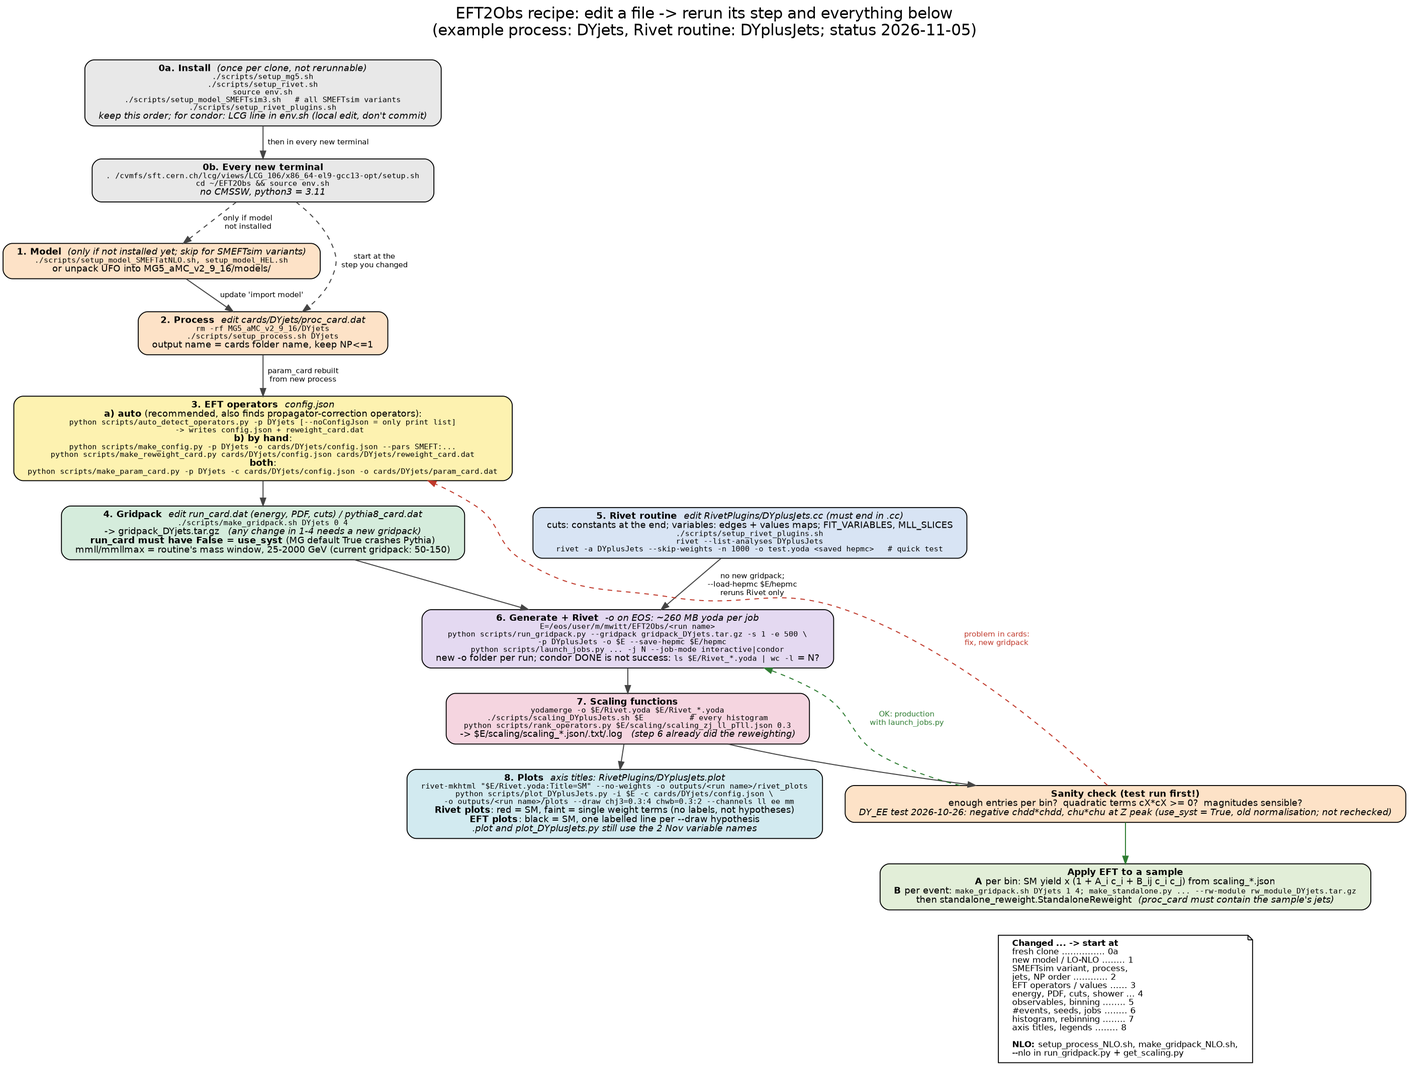
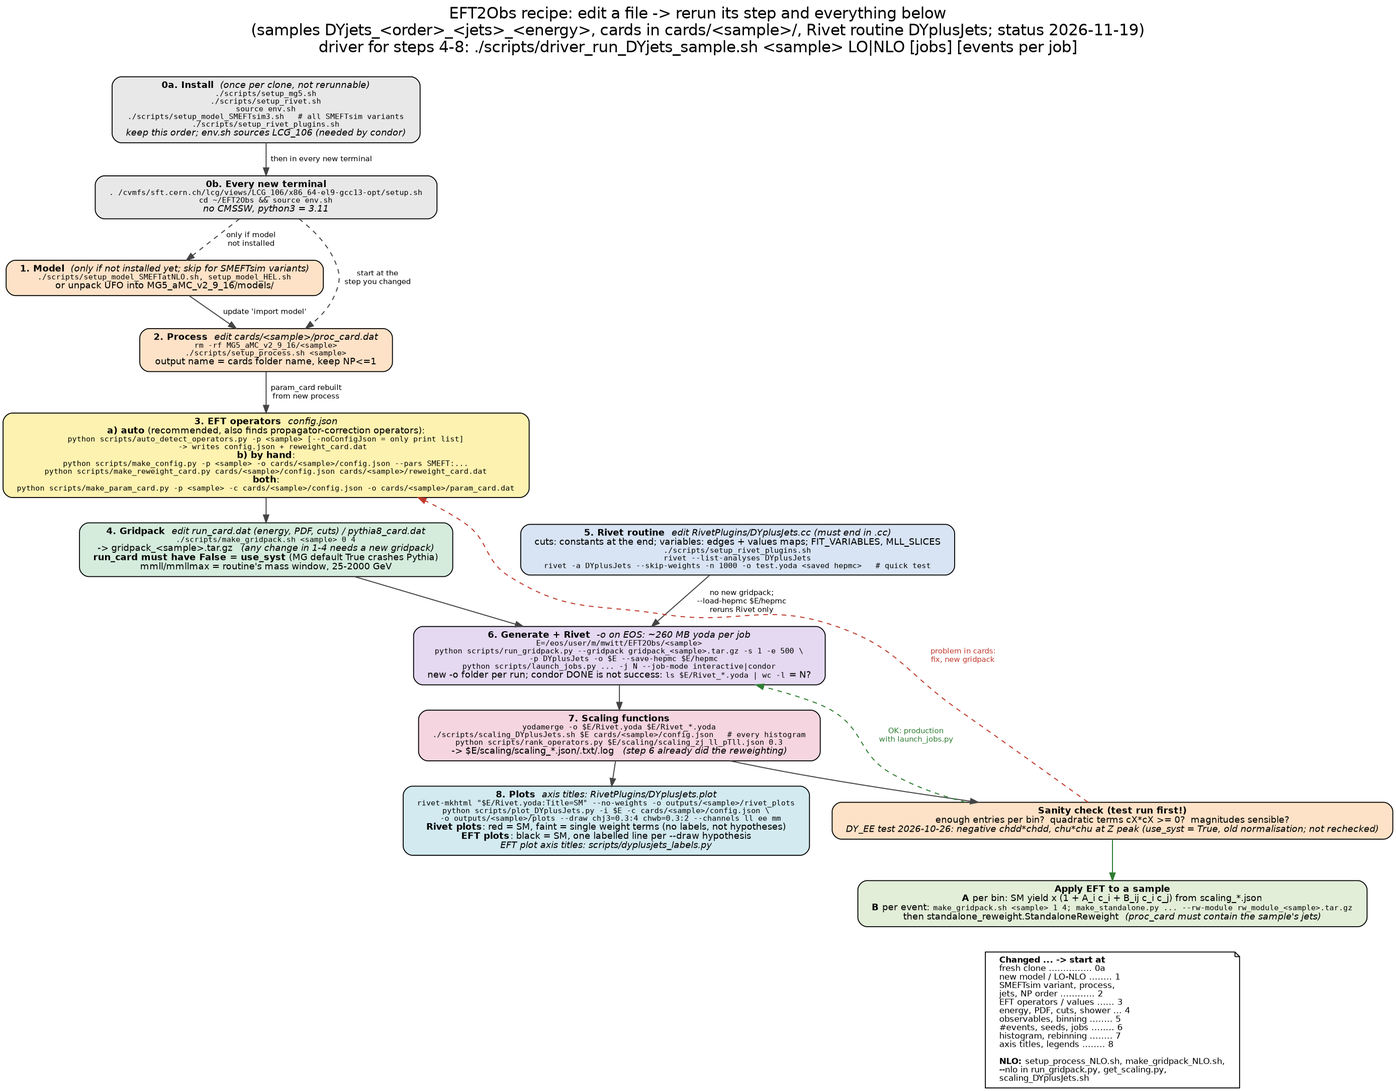
Subcategorise cards into cards/<sample>
The recipe now describes the per-sample cards and the driver, and it no longer contradicts the commits before it (env.sh, rank_operators.py, labels). scaling_DYplusJets.sh needs the config as an argument instead of defaulting to cards/DYjets/config.json.

Changed region(s): [[0.0, 0.0, 1.0, 1.0], [0.6194, 0.6535, 0.6813, 0.6846], [0.6813, 0.5912, 0.7123, 0.6223]]

diff --git a/scripts/plot_DYplusJets.py b/scripts/plot_DYplusJets.py
@@ -9,7 +9,7 @@ Input : <input-dir>/scaling/scaling_zj_<channel>_<variable>.json and scaling_ll_
 Output: <outdir>/zj_<channel>_<variable>_{lin,log}.{png,pdf} and <outdir>/ll_nJets_{lin,log}.{png,pdf}
 
 Example, from the EFT2Obs folder:
-  python scripts/plot_DYplusJets.py -i test-dyplusjets -c cards/DYjets/config.json \\
+  python scripts/plot_DYplusJets.py -i $E -c cards/<sample>/config.json \\
       --draw chj1=0.3:4 chu=0.3:2 "chj1=0.3,chu=0.3:8" --ratio 0.8,1.2
 
 With --top-ranked <dir>, each histogram also gets its own leading operators, read from

diff --git a/EFT2Obs_recipe/EFT2Obs_recipe.md b/EFT2Obs_recipe/EFT2Obs_recipe.md
@@ -1,8 +1,14 @@
 # EFT2Obs recipe: what to edit and what to rerun
 
-Example process: `DYjets` (cards in `cards/DYjets/`, Rivet routine `DYplusJets`).
-Status: 2026-11-05.
-Replace `DYjets` with your process name everywhere if you make a new one.
+Example: the DYjets samples with the Rivet routine `DYplusJets`. Each sample has its own cards folder
+`cards/<sample>/`, named `DYjets_<order>_<jets>_<energy>`, e.g. `DYjets_LO_012j_13p6TeV`. The sample name is
+also the MadGraph process name (`output` line of `proc_card.dat`), the gridpack name, and the EOS folder.
+In the commands below, replace `<sample>` by it. A new sample starts as a copy of an existing cards folder.
+Status: 2026-11-19.
+
+**Driver:** `./scripts/driver_run_DYjets_sample.sh <sample> <LO|NLO> [jobs] [events per job]` runs steps 4–8
+for one sample: gridpack, test job, condor jobs, merging, scaling, rankings, plots, and a README. Its header
+lists its own steps; `FROM_STEP=<n>` resumes at one of them. The sections below describe each step by hand.
 
 Rule of thumb: **every step depends on the ones above it.** If you change
 something, rerun its step and *everything below it*.
@@ -37,18 +43,13 @@ ls MG5_aMC_v2_9_16/models/ | grep SMEFTsim       # UFO folders are there
   `setup_mg5.sh` first, and `setup_process.sh` (step 2) needs the model.
 - `setup_mg5.sh` always prints `ERROR: environment variable LHAPDF_CONFIG_PATH is not set`
   at the start. That line is misleading and can be ignored.
-- `scripts/rank_operators.py` is not in git (status 2026-11-05): on a new clone, copy it over before step 7.
 - **These scripts are not meant to be rerun:** `setup_mg5.sh` stops if `lhapdf/` or
   `MG5_aMC_v2_9_16/` exists, and `setup_model_SMEFTsim3.sh` stops if the models exist.
   Changing the model, process or cards never needs a reinstall.
 
-**Using condor:** the jobs only run `source env.sh`, so they need the LCG line in it, otherwise
-they fail with `python: command not found`:
-```bash
-sed -i '1a source /cvmfs/sft.cern.ch/lcg/views/LCG_106/x86_64-el9-gcc13-opt/setup.sh' env.sh
-```
-Keep this as a local edit and don't commit it (it would break CMSSW users). It can get lost
-(it did on 2026-10-29), so check with `grep -n LCG_106 env.sh` before submitting.
+**Using condor:** the jobs only run `source env.sh`, so `env.sh` sources the LCG_106 view in its first
+lines; without it they fail with `python: command not found`. This is also why `env.sh` must not be sourced
+in a CMSSW shell (step 0b).
 
 **Only if the MadGraph install is really broken:** this also deletes all models and process
 folders; your `cards/` stay.
@@ -56,8 +57,8 @@ folders; your `cards/` stay.
 rm -rf MG5_aMC_v2_9_16 lhapdf HEPToolsInstallers
 ./scripts/setup_mg5.sh
 ./scripts/setup_model_SMEFTsim3.sh
-./scripts/setup_process.sh DYjets
-./scripts/make_gridpack.sh DYjets 0 4
+./scripts/setup_process.sh <sample>
+./scripts/make_gridpack.sh <sample> 0 4
 ```
 Rivet (`local/`) is not affected and does not need reinstalling.
 
@@ -80,17 +81,17 @@ source env.sh
 | What you want to change                          | File(s) to edit                                      | Start at step |
 |--------------------------------------------------|------------------------------------------------------|---------------|
 | Fresh clone, nothing installed yet               | none                                                 | **0a**        |
-| Other SMEFTsim flavour/scheme (already installed) | `import model` line in `cards/DYjets/proc_card.dat` | **2**         |
+| Other SMEFTsim flavour/scheme (already installed) | `import model` line in `cards/<sample>/proc_card.dat` | **2**         |
 | New model that is not installed yet (UFO)        | install into `MG5_aMC_v2_9_16/models/` + `proc_card.dat` | **1**     |
-| Process, final state, extra jets, `NP<=1`        | `cards/DYjets/proc_card.dat`                         | **2**         |
+| Process, final state, extra jets, `NP<=1`        | `cards/<sample>/proc_card.dat`                       | **2**         |
 | LO ↔ NLO (`[QCD]`)                               | `proc_card.dat`, model, NLO scripts (see NLO box)    | **1/2**       |
-| Which EFT operators / their values               | `cards/DYjets/config.json` (via `auto_detect_operators.py` or `make_config.py`) | **3** |
-| Generation params: energy, PDF, cuts, scales     | `cards/DYjets/run_card.dat`                          | **4**         |
-| Shower settings (Pythia8, CMS tune)              | `cards/DYjets/pythia8_card.dat`                      | **4**         |
+| Which EFT operators / their values               | `cards/<sample>/config.json` (via `auto_detect_operators.py` or `make_config.py`) | **3** |
+| Generation params: energy, PDF, cuts, scales     | `cards/<sample>/run_card.dat`                        | **4**         |
+| Shower settings (Pythia8, CMS tune)              | `cards/<sample>/pythia8_card.dat`                    | **4**         |
 | Rivet observables / cuts / binning               | `RivetPlugins/DYplusJets.cc`                         | **5**         |
 | Number of events / seeds / jobs                  | command line only                                    | **6**         |
 | Which histogram to parametrise / rebinning       | command line only                                    | **7**         |
-| Plot axis titles / legends                       | `RivetPlugins/DYplusJets.plot`, `plot_DYplusJets.py` | **8**         |
+| Plot axis titles / legends                       | `RivetPlugins/DYplusJets.plot`, `scripts/dyplusjets_labels.py` | **8**         |
 
 ---
 
@@ -117,7 +118,7 @@ Then update the `import model ...` line in `proc_card.dat` → continue with **s
 
 ---
 
-## 2. Process (`cards/DYjets/proc_card.dat`)
+## 2. Process (`cards/<sample>/proc_card.dat`)
 
 Edit, e.g.:
 ```
@@ -126,24 +127,24 @@ import model SMEFTsim_topU3l_MwScheme_UFO-massless
 generate p p > l+ l- NP<=1 @0
 add process p p > l+ l- j NP<=1 @1
 
-output DYjets
+output <sample>
 ```
 - `output <name>` **must equal** the `cards/<name>` folder name.
 - Keep `NP<=1` (at most one EFT vertex per diagram) → linear + quadratic terms.
-- **Current `cards/DYjets/proc_card.dat`:** only `generate p p > l+ l- NP<=1 @0` (the `+ j` line is
-  commented out), so all jets come from the shower.
+- **The samples:** `0j` has only `generate p p > l+ l- NP<=1 @0`, so all jets come from the shower; `01j`
+  adds `p p > l+ l- j NP<=1 @1`; `012j` also `p p > l+ l- j j NP<=1 NPcG=0 @2`.
 - With `+ j` (and `+ j j`) processes, the jets need MLM merging: `ickkw = 1` and `xqcut` in `run_card.dat`
-  (step 4). `cards/ggF-HEL` is a working example.
+  (step 4), as in the `01j` and `012j` cards.
 
 Rerun (the script refuses if the MG process folder already exists):
 ```bash
-rm -rf MG5_aMC_v2_9_16/DYjets
-./scripts/setup_process.sh DYjets
+rm -rf MG5_aMC_v2_9_16/<sample>
+./scripts/setup_process.sh <sample>
 ```
-- `run_card.dat` / `pythia8_card.dat` in `cards/DYjets/` are **not overwritten** if they exist.
+- `run_card.dat` / `pythia8_card.dat` in `cards/<sample>/` are **not overwritten** if they exist.
   If the process changed a lot (e.g. added jets → need matching/merging settings),
   delete them first to get fresh MG defaults, then re-apply your edits:
-  `rm cards/DYjets/{run,pythia8}_card.dat` before `setup_process.sh`.
+  `rm cards/<sample>/{run,pythia8}_card.dat` before `setup_process.sh`.
   **A fresh `run_card.dat` has `use_syst = True` again: set it back to `False` (see step 4).**
 
 → continue with **step 3** (the `param_card` must be rebuilt from the new process).
@@ -161,17 +162,17 @@ and for SMEFTsim v3 also the `NP...` coupling orders of the Feynman diagrams and
 
 ```bash
 # only print the list, don't write anything
-python scripts/auto_detect_operators.py -p DYjets --noConfigJson
+python scripts/auto_detect_operators.py -p <sample> --noConfigJson
 
-# write cards/DYjets/config.json + cards/DYjets/reweight_card.dat
-python scripts/auto_detect_operators.py -p DYjets \
+# write cards/<sample>/config.json + cards/<sample>/reweight_card.dat
+python scripts/auto_detect_operators.py -p <sample> \
     --def-val 0.01 --def-sm 0.0 --def-gen 0.0
 
 # then the param_card (auto_detect does NOT make it)
-python scripts/make_param_card.py -p DYjets -c cards/DYjets/config.json \
-    -o cards/DYjets/param_card.dat
+python scripts/make_param_card.py -p <sample> -c cards/<sample>/config.json \
+    -o cards/<sample>/param_card.dat
 ```
-- Run it from the `EFT2Obs` folder, after `setup_process.sh` (it needs `MG5_aMC_v2_9_16/DYjets`).
+- Run it from the `EFT2Obs` folder, after `setup_process.sh` (it needs `MG5_aMC_v2_9_16/<sample>`).
 - It **overwrites** `config.json` and `reweight_card.dat`; it also prints the
   `make_config.py ... --pars SMEFT:...` command it used, so you can copy that into 3b.
 - The `import model ...` line must be the **first line** of `proc_card.dat`.
@@ -181,17 +182,17 @@ python scripts/make_param_card.py -p DYjets -c cards/DYjets/config.json \
 
 ### 3b. By hand
 
-Look up block names / indices in `MG5_aMC_v2_9_16/DYjets/Cards/param_card.dat`.
+Look up block names / indices in `MG5_aMC_v2_9_16/<sample>/Cards/param_card.dat`.
 
 ```bash
-python scripts/make_config.py -p DYjets -o cards/DYjets/config.json \
+python scripts/make_config.py -p <sample> -o cards/<sample>/config.json \
     --pars SMEFT:5,9,26,28,30,32,103,104,105,107,108,109,113,115,117,119,121 \
     --def-val 0.01 --def-sm 0.0 --def-gen 0.0
 
-python scripts/make_param_card.py -p DYjets -c cards/DYjets/config.json \
-    -o cards/DYjets/param_card.dat
+python scripts/make_param_card.py -p <sample> -c cards/<sample>/config.json \
+    -o cards/<sample>/param_card.dat
 
-python scripts/make_reweight_card.py cards/DYjets/config.json cards/DYjets/reweight_card.dat
+python scripts/make_reweight_card.py cards/<sample>/config.json cards/<sample>/reweight_card.dat
 ```
 - `--def-val`: value used in the reweighting points; `--def-gen`: value used for generation (0 = SM).
 - Per-parameter overrides: edit `config.json`, e.g. `{"index": 5, "name": "chdd", "val": 0.1}`,
@@ -205,13 +206,12 @@ python scripts/make_reweight_card.py cards/DYjets/config.json cards/DYjets/rewei
 ## 4. Generation / shower cards → gridpack
 
 Edit as needed:
-- `cards/DYjets/run_card.dat` – `ebeam1/2`, `pdlabel`/`lhaid`, cuts (`ptl`, `mmll`, `etal`, ...),
+- `cards/<sample>/run_card.dat` – `ebeam1/2`, `pdlabel`/`lhaid`, cuts (`ptl`, `mmll`, `etal`, ...),
   scales, `nevents` (only for the gridpack pilot run).
   - **m_ℓℓ range:** `mmll`/`mmllmax` should match the routine's mass window, 25–2000 GeV
-    (`MLL_MIN`/`MLL_MAX` in `DYplusJets.cc`). The current card and gridpack still have 50 and 150 GeV:
-    set `25.0 = mmll` and `2000.0 = mmllmax` for the next gridpack. Few events land in the tail of one flat
-    sample, so generating in m_ℓℓ slices may be needed.
-- `cards/DYjets/pythia8_card.dat` – shower settings
+    (`MLL_MIN`/`MLL_MAX` in `DYplusJets.cc`); all current cards use `25.0 = mmll` and `2000.0 = mmllmax`.
+    Few events land in the tail of one flat sample, so generating in m_ℓℓ slices may be needed.
+- `cards/<sample>/pythia8_card.dat` – shower settings
   (CMS-like tune: append `resources/pythia8/cms_default_2018.dat`).
 
 **Required in `run_card.dat`: `False = use_syst`.** MadGraph's default is `True`, which adds
@@ -220,18 +220,18 @@ the number of operators from the total number of weights, so the extra weights b
 with 33 operators (596 weights + 144 systematics) it gets 37, and Pythia crashes on the first event.
 With fewer operators it may not crash, but it can still mix these weights into the EFT terms.
 ```bash
-grep -n use_syst cards/DYjets/run_card.dat      # must show False
+grep -n use_syst cards/<sample>/run_card.dat    # must show False
 ```
 
-Build the gridpack (copies all cards from `cards/DYjets/` into MG each time):
+Build the gridpack (copies all cards from `cards/<sample>/` into MG each time):
 ```bash
-./scripts/make_gridpack.sh DYjets 0 4
-#                          ^      ^ ^-- number of cores
-#                          |      +---- 1 = also export standalone rw_module_DYjets.tar.gz
-#                          +----------- cards folder
+./scripts/make_gridpack.sh <sample> 0 4
+#                          ^        ^ ^-- number of cores
+#                          |        +---- 1 = also export standalone rw_module_<sample>.tar.gz
+#                          +------------- cards folder
 ```
-Output: `gridpack_DYjets.tar.gz` (overwritten). A 4th argument adds a postfix,
-e.g. `./scripts/make_gridpack.sh DYjets 0 4 _13p6TeV` → `gridpack_DYjets_13p6TeV.tar.gz`;
+Output: `gridpack_<sample>.tar.gz` (overwritten). A 4th argument adds a postfix,
+e.g. `./scripts/make_gridpack.sh <sample> 0 4 _test` → `gridpack_<sample>_test.tar.gz`;
 further arguments are passed to MG, e.g. `"set ebeam1 6800" "set ebeam2 6800"`.
 
 > **Any change in steps 1–4 needs a new gridpack.** The model, process,
@@ -276,28 +276,28 @@ rerun only Rivet on them (step 6, `--load-hepmc`), without regenerating events.
 
 Each job's yoda file is ~260 MB (every histogram once per weight), so write to EOS, not AFS:
 ```bash
-E=/eos/user/m/mwitt/EFT2Obs/<run name>        # a new folder for each run
+E=/eos/user/m/mwitt/EFT2Obs/<sample>          # one folder per sample, as the driver does
 ```
 
 Quick test (one job):
 ```bash
-python scripts/run_gridpack.py --gridpack gridpack_DYjets.tar.gz -s 1 -e 500 \
+python scripts/run_gridpack.py --gridpack gridpack_<sample>.tar.gz -s 1 -e 500 \
     -p DYplusJets -o $E --save-hepmc $E/hepmc
 ```
 
 Rivet-only rerun after editing the routine (reuses `$E/hepmc/events_1.hepmc.gz`):
 ```bash
-python scripts/run_gridpack.py --gridpack gridpack_DYjets.tar.gz -s 1 \
+python scripts/run_gridpack.py --gridpack gridpack_<sample>.tar.gz -s 1 \
     -p DYplusJets -o $E --load-hepmc $E/hepmc
 ```
 
 Many jobs (local, 4 in parallel):
 ```bash
-python scripts/launch_jobs.py --gridpack gridpack_DYjets.tar.gz -j 4 -s 1 -e 500 \
+python scripts/launch_jobs.py --gridpack gridpack_<sample>.tar.gz -j 4 -s 1 -e 500 \
     -p DYplusJets -o $E --job-mode interactive --parallel 4
 ```
 On condor: replace the last two options by
-`--job-mode condor --task-name dyplusjets --sub-opts '+JobFlavour = "workday"'`.
+`--job-mode condor --task-name <sample> --sub-opts '+JobFlavour = "workday"'`.
 This needs the LCG line in `env.sh` (step 0a). `-e` is events **per job**.
 
 - **Use a new `-o` folder for each gridpack/model.** `yodamerge` on `Rivet_*.yoda` would
@@ -306,7 +306,7 @@ This needs the LCG line in `env.sh` (step 0a). `-e` is events **per job**.
   so failed jobs can still show as done. Check before merging:
   ```bash
   ls $E/Rivet_*.yoda | wc -l                       # must equal the number of jobs
-  grep -il traceback dyplusjets.<ClusterId>.*.err  # must print nothing
+  grep -il traceback <task name>.<ClusterId>.*.err # must print nothing
   ```
 - **Long runs:** use condor. Reweighting makes one pass over all events per reweight point (595 points
   took ~10 s each with 10k events, ~1 s each with 500), and a plain shell job dies when you log out.
@@ -315,7 +315,7 @@ This needs the LCG line in `env.sh` (step 0a). `-e` is events **per job**.
 Clean up after a failed condor run:
 ```bash
 condor_rm <ClusterId>
-rm -f core.* dyplusjets.<ClusterId>.*
+rm -f core.* <task name>.<ClusterId>.*
 rm -rf $E                         # only if it holds nothing from an earlier good run
 ```
 
@@ -330,11 +330,11 @@ Useful flags: `--to-step lhe|shower|rivet`, `--save-lhe DIR`, `--load-lhe DIR`, 
 # merge, only with more than one job (one job: cp $E/Rivet_1.yoda $E/Rivet.yoda)
 yodamerge -o $E/Rivet.yoda $E/Rivet_*.yoda
 
-# all DYplusJets histograms at once; writes $E/scaling/scaling_<hist>.json/.txt/.log
-./scripts/scaling_DYplusJets.sh $E
+# all DYplusJets histograms at once; writes $E/scaling/scaling_<hist>.json/.txt/.log (NLO: add --nlo)
+./scripts/scaling_DYplusJets.sh $E cards/<sample>/config.json
 
 # or one histogram
-python scripts/get_scaling.py -c cards/DYjets/config.json -i $E/Rivet.yoda \
+python scripts/get_scaling.py -c cards/<sample>/config.json -i $E/Rivet.yoda \
     --hist /DYplusJets/zj_ee_cosThetaCS_mll2 --save json,txt -o $E/scaling/scaling_zj_ee_cosThetaCS_mll2
 
 # which operators matter for one histogram, at c = 0.3
@@ -378,7 +378,7 @@ Editing the `.plot` file needs **no** recompilation, just rerun `rivet-mkhtml`.
 Legend entries are set per input file with `file.yoda:Title=...`; you can also
 compare several files:
 ```bash
-rivet-mkhtml "$E/Rivet.yoda:Title=SM (2000 events)" --no-weights -o outputs/<run name>/rivet_plots
+rivet-mkhtml "$E/Rivet.yoda:Title=SM (2000 events)" --no-weights -o outputs/<sample>/rivet_plots
 rivet-mkhtml run1/Rivet.yoda:"Title=13 TeV" run2/Rivet.yoda:"Title=13.6 TeV" -o compare-plots
 ```
 - By default **every EFT weight** is drawn as a faint line; add `--no-weights` to
@@ -393,7 +393,7 @@ rivet-mkhtml run1/Rivet.yoda:"Title=13 TeV" run2/Rivet.yoda:"Title=13.6 TeV" -o 
 Uses the scaling `.json` files from step 7 (needs ROOT, which LCG provides). One plot per variable and
 channel, linear and log, PNG + PDF, in the style of `makePlot.py`:
 ```bash
-python scripts/plot_DYplusJets.py -i $E -c cards/DYjets/config.json -o outputs/<run name>/plots \
+python scripts/plot_DYplusJets.py -i $E -c cards/<sample>/config.json -o outputs/<sample>/plots \
     --draw chj3=0.3:4 chwb=0.3:2 che11=0.3:6 "chj3=0.3,chwb=0.3:8" --channels ll ee mm --ratio 0.8,1.2
 ```
 - `--draw PAR1=X1,PAR2=X2:COLOR`: one line + legend entry per argument (ROOT colour number: 2 red, 4 blue,
@@ -401,12 +401,16 @@ python scripts/plot_DYplusJets.py -i $E -c cards/DYjets/config.json -o outputs/<
 - `--ratio lo,hi`: y-range of the ratio panel; `--show-unc`: stat. uncertainty band
   on the hypotheses; `--variables`, `--channels` to choose plots.
 - Legend labels: edit `resources/translate_root_DY.json` (e.g. `"chj1": "c_{Hq}^{(1)}"`).
-- A new variable in the routine also needs an entry in the `VARIABLES` dict of the script (axis title, unit)
-  and a block in `DYplusJets.plot`.
+- `--top-ranked outputs/<sample>`: also draw the 3 leading operators by rate and by shape of each histogram,
+  from the rankings of the driver; `--process-title` sets the left title. The driver plots this way.
+- A new variable in the routine also needs an entry in `VARIABLES` in `scripts/dyplusjets_labels.py` (axis title,
+  unit) and a block in `DYplusJets.plot`.
+- SM of several samples, ratio to the first: `scripts/plot_DYplusJets_SMsampleRatios.py -o <dir>
+  --sample "LO 0j=$E0" --sample "LO 01j=$E1" ...` (`--normalise` compares shapes only).
 
 A single histogram with the generic EFT2Obs script:
 ```bash
-python scripts/makePlot.py --hist $E/scaling_zj_ll_mll.json -c cards/DYjets/config.json \
+python scripts/makePlot.py --hist $E/scaling/scaling_zj_ll_mll.json -c cards/<sample>/config.json \
     --x-title "m_{ll} [GeV]" --title-left "pp #rightarrow l^{+}l^{-} + #geq1 jet" --title-right "SMEFTsim3" \
     --draw chj3=0.3:4 chwb=0.3:2 --translate resources/translate_root_DY.json --ratio 0.8,1.2 --logy --y-min 1E-6
 ```
@@ -418,7 +422,7 @@ are hard-coded in `scripts/makePlot.py` (search for `TLegend` / `a.u.`).
 | Plots        | Files                                                        | Made by          |
 |--------------|--------------------------------------------------------------|------------------|
 | Rivet plots  | `<-o dir>/DYplusJets/<hist>.png/.pdf` (overview `<-o dir>/index.html`) | `rivet-mkhtml` |
-| EFT plots    | `outputs/<run name>/plots/*.png/.pdf`                         | `plot_DYplusJets.py` |
+| EFT plots    | `outputs/<sample>/plots/*.png/.pdf`                         | `plot_DYplusJets.py` |
 
 **Rivet plots** (`DYplusJets/`):
 - Solid red line = nominal weight = **SM** (because `config.json` generates at `--def-gen 0.0`).
@@ -451,8 +455,8 @@ are hard-coded in `scripts/makePlot.py` (search for `TLegend` / `a.u.`).
 | Scaling functions                      | `$E/scaling/scaling_<hist>.json` / `.txt` (`scaling_DYplusJets.sh`) |
 | Per-bin coefficient tables             | `$E/scaling/scaling_<hist>.log`                          |
 | Rivet plots                            | `<-o dir>/index.html` (from `rivet-mkhtml`)              |
-| EFT plots                              | `outputs/<run name>/plots/` (from `plot_DYplusJets.py`)  |
-| Standalone reweighting module          | `rw_module_DYjets.tar.gz` (only with `make_gridpack.sh DYjets 1 ...`) |
+| EFT plots                              | `outputs/<sample>/plots/` (from `plot_DYplusJets.py`)  |
+| Standalone reweighting module          | `rw_module_<sample>.tar.gz` (only with `make_gridpack.sh <sample> 1 ...`) |
 | LHE / HepMC files                      | only if `--save-lhe DIR` / `--save-hepmc DIR` was given  |
 | Job working dir                        | `/tmp/$USER/gridpack_run_X`, deleted at the end unless `--no-cleanup` |
 
@@ -507,26 +511,24 @@ Condition: the SM sample uses the **same selection and binning** as `DYplusJets`
 
 ```bash
 # 1. Build the gridpack with the standalone module export switched on (2nd argument = 1)
-./scripts/make_gridpack.sh DYjets 1 4          # -> rw_module_DYjets.tar.gz
+./scripts/make_gridpack.sh <sample> 1 4          # -> rw_module_<sample>.tar.gz
 # 2. Pack module + config + one param_card per reweighting point
-python scripts/make_standalone.py -p DYjets -o rw_DYjets -c cards/DYjets/config.json \
-    --rw-module rw_module_DYjets.tar.gz
+python scripts/make_standalone.py -p <sample> -o rw_<sample> -c cards/<sample>/config.json \
+    --rw-module rw_module_<sample>.tar.gz
 ```
 Then per event in Python (needs LHE-level partons: 4-momenta, PDG IDs, helicities, status, alpha_s):
 ```python
 import sys; sys.path.insert(0, 'scripts')
 from standalone_reweight import StandaloneReweight
-rw = StandaloneReweight('rw_DYjets')
+rw = StandaloneReweight('rw_<sample>')
 w  = rw.ComputeWeights(parts, pdgs, helicities, status, alphas, True)  # parts = [[E,px,py,pz], ...]
 tw = rw.TransformWeights(w)
 new_w = rw.CalculateWeight(tw, chdd=0.1, chwb=0.05)   # weight for any operator values
 ```
-- **Which module?** Always one built from the *current* `proc_card` / `config.json`.
-  (The old `rw_module_DYjets.tar.gz` from 2026-10-25 contains `+ j` subprocesses and
-  does not match the current 0-jet setup; don't use it.)
+- **Which module?** Always one built from the same `proc_card` / `config.json` as the events to reweight.
 - **Which sample?** Only events whose parton configuration exists in your MG process can
-  be reweighted. Current `proc_card` = `p p > l+ l-` only. Official DY samples usually have
-  0–4 extra jets → `ComputeWeights` prints an error for those events. To reweight such a
+  be reweighted: `0j` has `p p > l+ l-` only, `012j` up to two extra partons. Official DY samples usually
+  have 0–4 extra jets → `ComputeWeights` prints an error for events with more partons than the process. To reweight such a
   sample, add the `+ j` processes in `proc_card.dat` (step 2) and use the same model /
   flavour scheme as the sample.
 - Standalone reweighting does not work with NLO matrix elements.
@@ -543,7 +545,7 @@ new_w = rw.CalculateWeight(tw, chdd=0.1, chwb=0.05)   # weight for any operator 
 | 3    | `make_reweight_card.py`    | add `--prepend 'change mode NLO'`                    |
 | 4    | `pythia8_card.dat`         | `shower_card.dat`; in `run_card`: `parton_shower = PYTHIA8`, `req_acc = 0.001`, `store_rwgt_info = True`, `reweight_scale = True` |
 | 4    | `make_gridpack.sh`         | `make_gridpack_NLO.sh`                               |
-| 6/7  | –                          | add `--nlo` to `run_gridpack.py` and `get_scaling.py` |
+| 6/7  | –                          | add `--nlo` to `run_gridpack.py`, `get_scaling.py`, `scaling_DYplusJets.sh` (the driver does this for `NLO`) |
 
 ---
 
